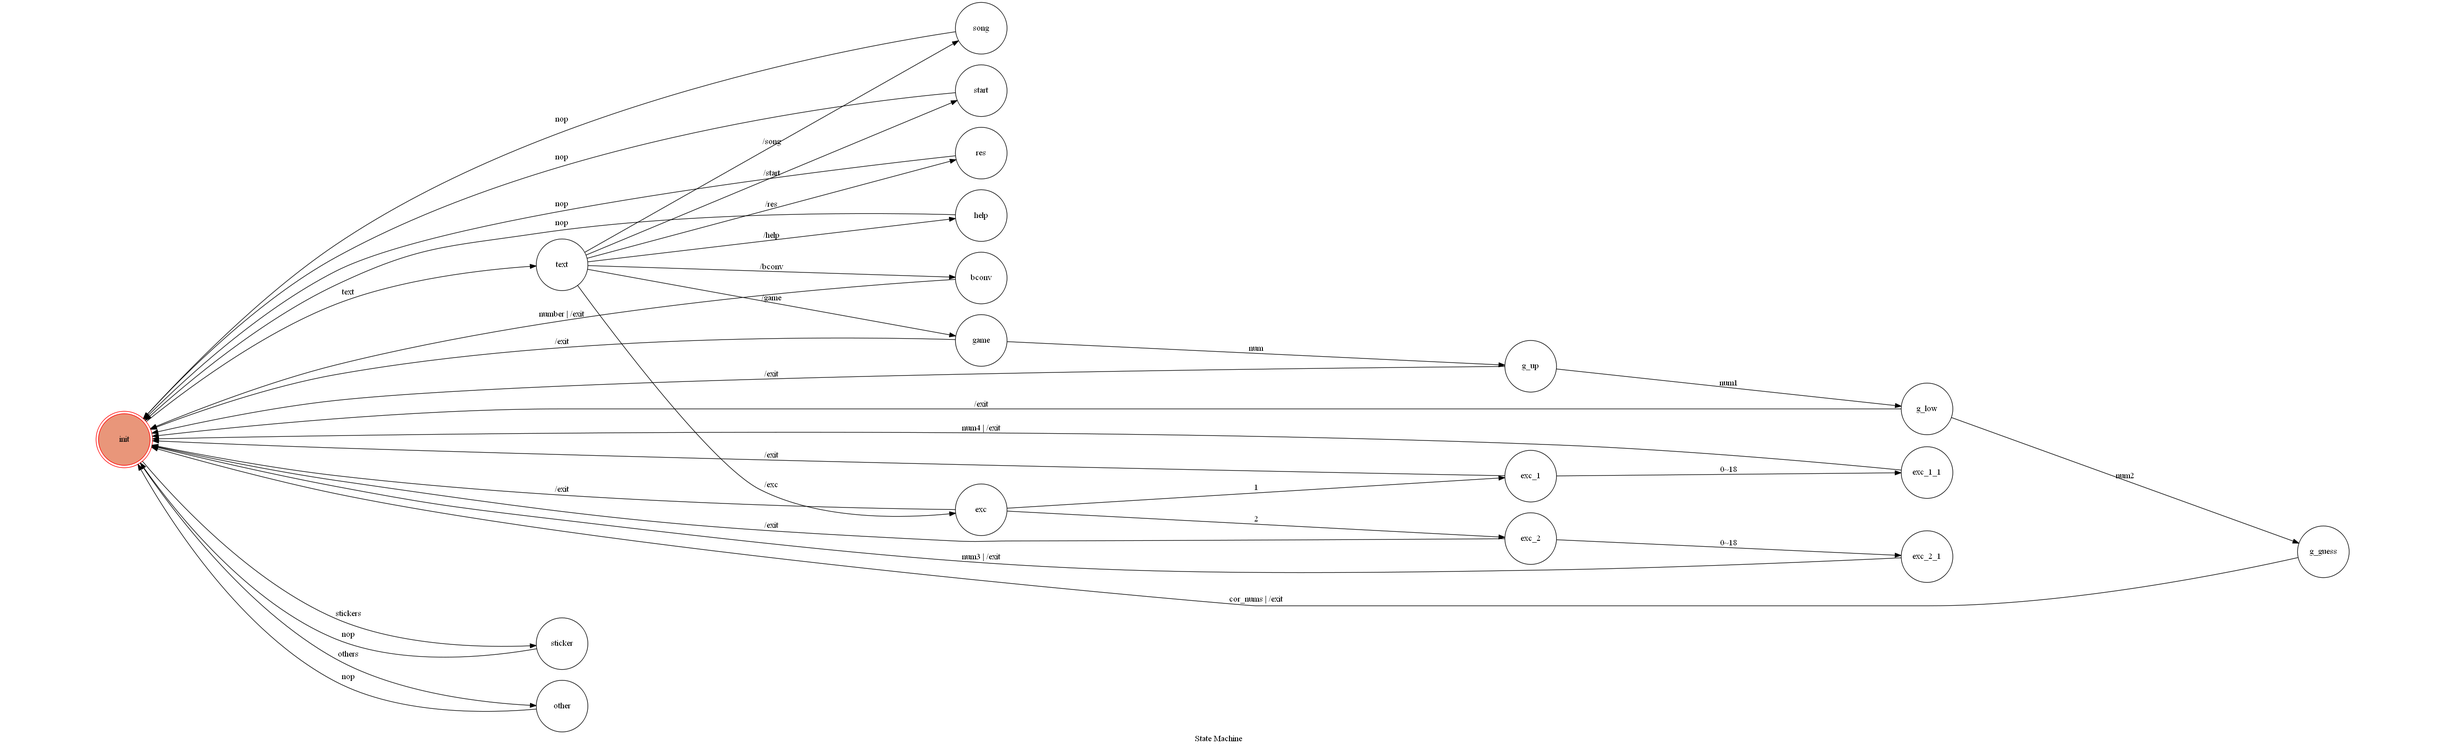
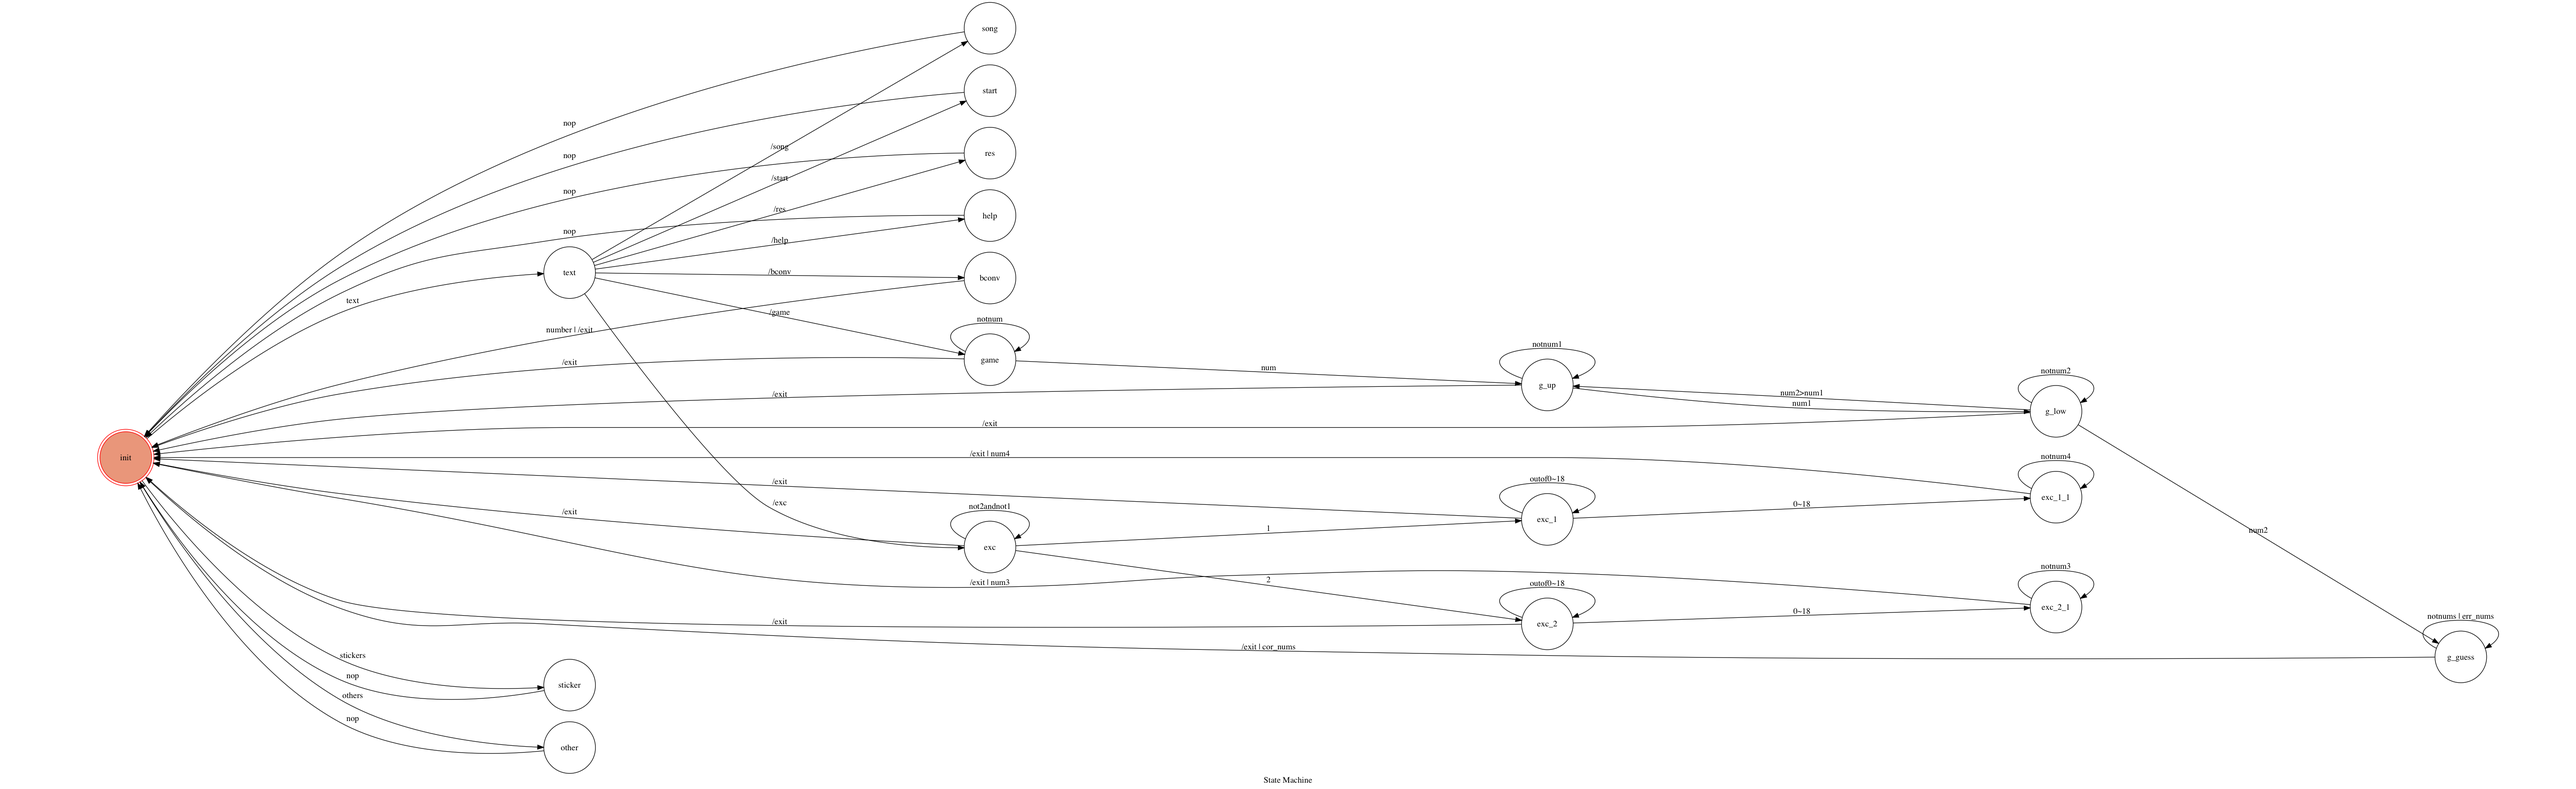
fix fsm

diff --git a/a.py b/a.py
@@ -21,27 +21,37 @@ transitions = [
      { 'trigger': '/exit', 'source': 'bconv', 'dest': 'init'},
      { 'trigger': '/game', 'source': 'text', 'dest': 'game'},
      { 'trigger': 'num', 'source': 'game', 'dest': 'g_up'},
+    {'trigger': 'notnum', 'source': 'game', 'dest': 'game'},
     { 'trigger': '/exit', 'source': 'game', 'dest': 'init'},
     { 'trigger': '/exit', 'source': 'g_up', 'dest': 'init'},
      { 'trigger': 'num1', 'source': 'g_up', 'dest': 'g_low'},
+    {'trigger': 'notnum1', 'source': 'g_up', 'dest': 'g_up'},
      { 'trigger': 'num2', 'source': 'g_low', 'dest': 'g_guess'},
+    {'trigger': 'notnum2', 'source': 'g_low', 'dest': 'g_low'},
+    {'trigger': 'num2>num1', 'source': 'g_low', 'dest': 'g_up'},
      { 'trigger': '/exit', 'source': 'g_low', 'dest': 'init'},
      { 'trigger': 'cor_nums', 'source': 'g_guess', 'dest': 'init'},
+    {'trigger': 'notnums', 'source': 'g_guess', 'dest': 'g_guess'},
+    {'trigger': 'err_nums', 'source': 'g_guess', 'dest': 'g_guess'},
     { 'trigger': '/exc', 'source': 'text', 'dest': 'exc'},
      { 'trigger': '/exit', 'source': 'exc', 'dest': 'init'},
      { 'trigger': '1', 'source': 'exc', 'dest': 'exc_1'},
      { 'trigger': '2', 'source': 'exc', 'dest': 'exc_2'},
+    {'trigger': 'not2andnot1', 'source': 'exc', 'dest': 'exc'},
          { 'trigger': '/exit', 'source': 'g_guess', 'dest': 'init'},
     { 'trigger': '/exit', 'source': 'exc_1', 'dest': 'init'},
      { 'trigger': '/exit', 'source': 'exc_2', 'dest': 'init'},
      { 'trigger': '0~18', 'source': 'exc_1', 'dest': 'exc_1_1'},
+    {'trigger': 'outof0~18', 'source': 'exc_1', 'dest': 'exc_1'},
      { 'trigger': '0~18', 'source': 'exc_2', 'dest': 'exc_2_1'},
+    {'trigger': 'outof0~18', 'source': 'exc_2', 'dest': 'exc_2'},
          { 'trigger': '/exit', 'source': 'exc_1_1', 'dest': 'init'},
      { 'trigger': '/exit', 'source': 'exc_2_1', 'dest': 'init'},
          { 'trigger': 'num3', 'source': 'exc_2_1', 'dest': 'init'},
+    {'trigger': 'notnum3', 'source': 'exc_2_1', 'dest': 'exc_2_1'},
      { 'trigger': 'num4', 'source': 'exc_1_1', 'dest': 'init'},
-    # Uncommenting the following line causes an error in pygraphviz
-    # {'trigger': 'nope', 'source': 'first', 'dest': 'first'},
+    {'trigger': 'notnum4', 'source': 'exc_1_1', 'dest': 'exc_1_1'},
+
 ]
 
 
